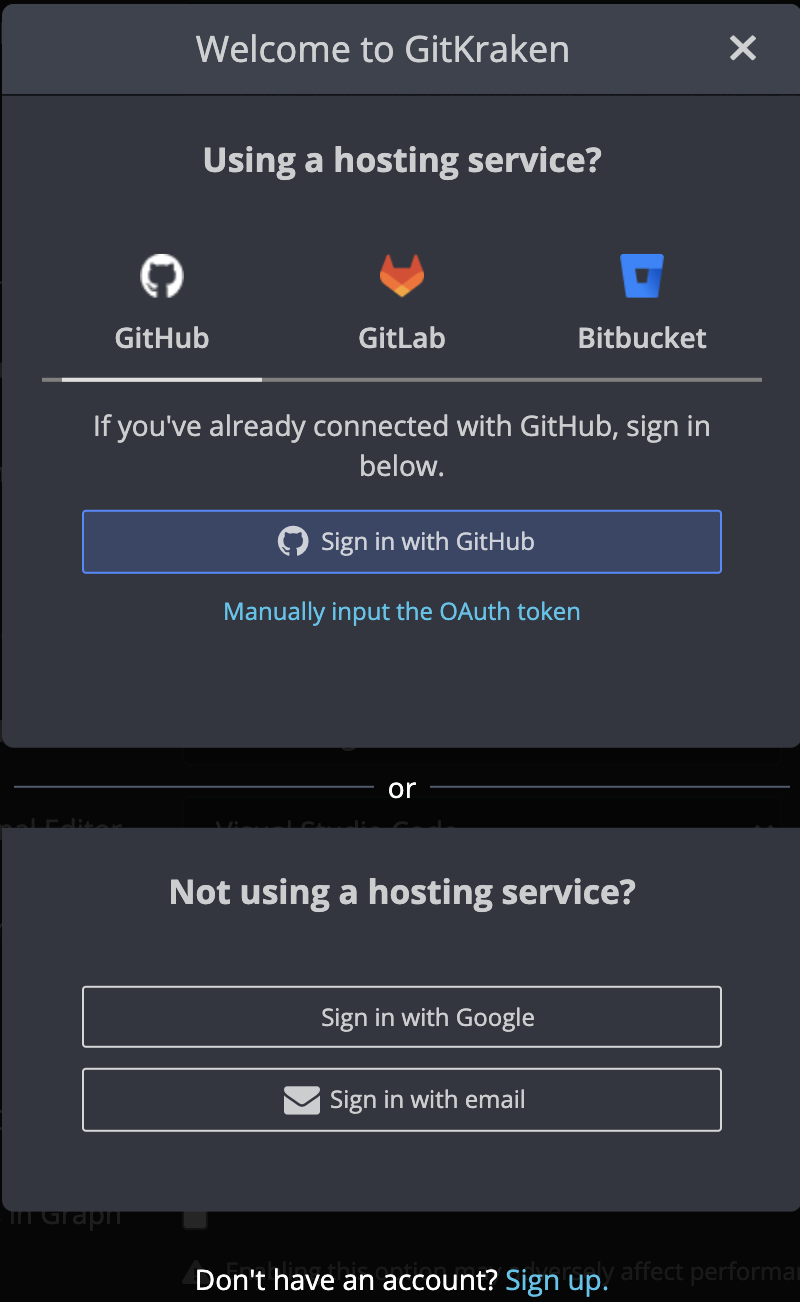
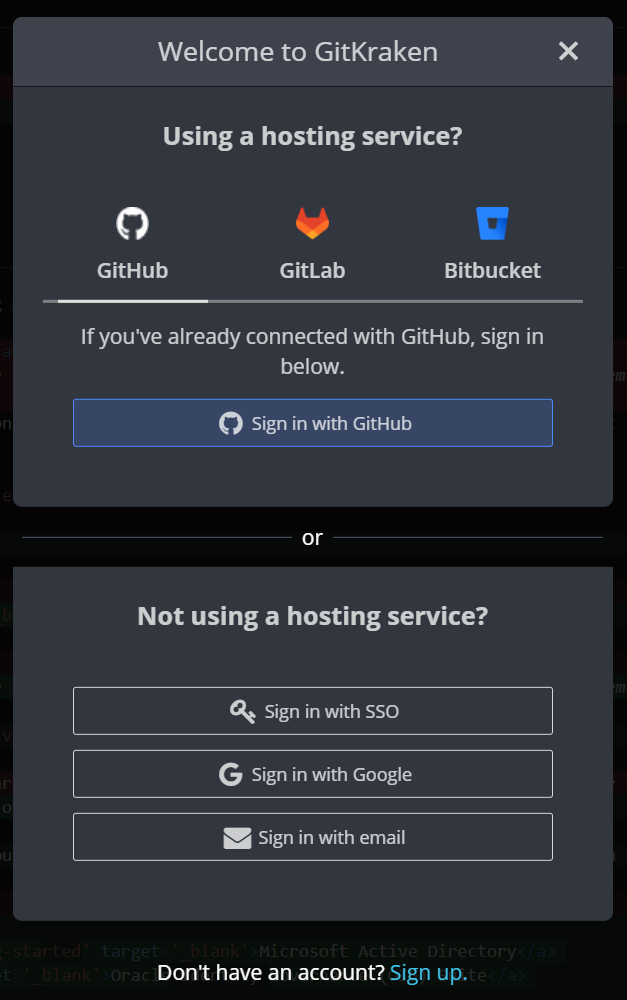
adding more SSO instructions
- removed ping
- added SSO to "login" page
- misc changes to multiple pages

Changed region(s): [[0.0, 0.0, 1.0, 1.0], [0.2424, 0.093, 0.7576, 0.155]]

diff --git a/gitkraken-client/single-sign-on.md b/gitkraken-client/single-sign-on.md
@@ -9,13 +9,13 @@ taxonomy:
 
 GitKraken offers a Single Sign On (SSO) option as an easy way to sign in to your account. 
 
-Once your organization has setup SSO with an Identity Provider (IdP), the Owner or an Admin on your GitKraken organization can link your orgazation to that identity provider. Then, any users associated with your IdP can login to GitKraken apps and services with a single click. 🎉
+Once your organization has setup SSO with an Identity Provider (IdP), the Owner or an Admin on your GitKraken organization can link your orgazation to that identity provider. Then, any users associated with your IdP can login to GitKraken apps and services quickly. 🎉
 
 <div class='callout callout--warning'>
     <p><strong>Note:</strong> You must have an active GitKraken Teams or Enterprise License to enable SSO</p>
 </div>
 
-## What is SSO?
+## What is Single Sign On (SSO)?
 
 The <a href='https://en.wikipedia.org/wiki/Single_sign-on' target='_blank'>Wikipedia</a> definition of SSO:
 
@@ -62,15 +62,16 @@ GitKraken may initiate an Oauth authentication flow with the following supported
 * <a href='https://azure.microsoft.com/' target='_blank'>Azure Active Directory</a> 
 * <a href='https://www.okta.com/' target='_blank'>Okta</a>
 * <a href='https://cloud.google.com/identity-platform' target='_blank'>Google Identity Platform (G Suite)</a>
-* <a href='https://www.pingidentity.com/en.html' target='_blank'>Ping Identity</a>
 
 <div class='callout callout--warning'>
-    <p><strong>Note:</strong> Your IdP(s) will first need to be configured before setting up the connection in GitKraken. For assistance please contact your IdP administrator or consult the IdP documentation for help.</p>
+    <p><strong>Note:</strong> Your IdP(s) will first need to be configured before setting up the connection in GitKraken.</p>
 </div>
+
+While we do not support the IdP setup, check out this [example IdP setup](/gitkraken-client/single-sign-on/#example-idp-setup-instructions) to see what this portion typically looks like.
 
 ### License Requirements
 
-Single Sign On is only availibe as part of the <a href='https://www.gitkraken.com/git-client/pricing' target='_blank'>teams and enterprise plans</a>. 
+Single Sign On is availibe as part of the <a href='https://www.gitkraken.com/git-client/pricing' target='_blank'>teams and enterprise plans</a>. 
 
 ### Setting up SSO on a GitKraken Organization
 
@@ -164,3 +165,56 @@ When logging into GitKraken Client, GitLens, <a href='https://account.gitkraken.
 <img src="/wp-content/uploads/sso-sign-in.png" class="img-bordered img-responsive center">
 
 After clicking “Sign in with SSO”, the SSO form will open and ask for an email address to use for SSO login. GitKraken will then check the email and determine whether the email address belongs to a single IdP for SSO. When the email address is successfully identified, the user will be taken to that IdP to login.
+
+
+## Example IdP setup instructions
+
+<div class='callout callout--warning'>
+    <p><strong>Note:</strong> These are example instructions to help you with Identity Provider setup. For assistance please contact your IdP administrator or consult the IdP documentation for help.</p>
+</div>
+
+How to Create SAML Application in G Suite:
+
+1. Go to https://admin.google.com/ 
+
+2. Click on “Apps” and then “Web and mobile apps”
+
+<img src="/wp-content/uploads/sso-example-idp-1.jpg" class="img-bordered img-responsive center">
+
+3. Click on “Add app” 
+
+<img src="/wp-content/uploads/sso-example-idp-2.jpg" class="img-bordered img-responsive center">
+
+4. Click “Add custom SAML app”
+
+<img src="/wp-content/uploads/sso-example-idp-3.jpg" class="img-bordered img-responsive center">
+
+5. Type in your app name
+
+<img src="/wp-content/uploads/sso-example-idp-4.jpg" class="img-bordered img-responsive center">
+
+6. Copy your “SSO URL” and “Certificate”
+
+<img src="/wp-content/uploads/sso-example-idp-5.jpg" class="img-bordered img-responsive center">
+
+7. Type in your “https://baseURL/oauth/sso/callback” for “ACS URL” and “Entity ID”
+
+<img src="/wp-content/uploads/sso-example-idp-6.jpg" class="img-bordered img-responsive center">
+
+8. Add desired attributes and click on “Finish”
+
+<img src="/wp-content/uploads/sso-example-idp-7.jpg" class="img-bordered img-responsive center">
+
+9. Click on “TEST SAML LOGIN”
+
+<img src="/wp-content/uploads/sso-example-idp-8.jpg" class="img-bordered img-responsive center">
+
+10. Click on “ALLOW ACCESS”
+
+<img src="/wp-content/uploads/sso-example-idp-9.jpg" class="img-bordered img-responsive center">
+
+11. Select “ON for everyone” and save 
+
+<img src="/wp-content/uploads/sso-example-idp-10.jpg" class="img-bordered img-responsive center">
+
+Now you are all set to [setup your your SSO on a GitKraken Organization](/gitkraken-client/single-sign-on/#setting-up-sso-on-a-gitKraken-organization)

diff --git a/gitkraken-client/login.md b/gitkraken-client/login.md
@@ -16,7 +16,7 @@ If you already have a GitKraken account, click your profile icon in the upper ri
 <img src="/wp-content/uploads/login/sign-into-a-different-account.png" srcset="/wp-content/uploads/login/sign-into-a-different-account@2x.png 2x" class="img-responsive center img-bordered">
 
 
-Alternatively, navigate to <kbd><i>File    <i class='fa fa-caret-right'></i>     Sign into a Different Account</i></kbd>
+Alternatively, navigate to <kbd><strong>File > Sign into a Different Account</strong></kbd>
 
 <img src='/wp-content/uploads/login/file.png' class='img-bordered img-responsive center'>
 
@@ -29,16 +29,20 @@ If you don't have `GitKraken` yet, [register](https://app.gitkraken.com/register
 
 When navigating to <kbd><strong>File > Sign into a different account</strong></kbd>, you may choose to sign in with GitHub, GitLab, Bitbucket, or Google:
 
-<img src='/wp-content/uploads/login/sign-in.png' srcset='/wp-content/uploads/login/sign-in@2x.png 2x' class='img-bordered img-responsive center'>
+<img src='/wp-content/uploads/login/sign-in.png' class='img-bordered img-responsive center'>
 
 Should you choose GitHub, GitLab, or Bitbucket, this will open your default browser and authenticate your account. If you are already signed into the site on your browser, GitKraken Client will sign you in using that account.
 
 Once you see the "Success!" message, select `Open GitKraken` to proceed with the login. If however GitKraken Client does not automatically log you in after signing in with one of these services, you may manually enter the Oauth token provided on the success page, to complete the authentication.
 
-<img src='/wp-content/uploads/login/google-token.png' srcset='/wp-content/uploads/login/google-token@2x.png 2x' class='img-bordered img-responsive center'>
+<img src='/wp-content/uploads/login/google-token.png' class='img-bordered img-responsive center'>
 
 Additionally if your Google, GitHub, GitLab, or Bitbucket account has a GitKraken account associated, the app will automatically link the accounts together. 
 
+
+## Sign in with SSO
+
+If your organization is on the <a href='https://www.gitkraken.com/git-client/pricing' target='_blank'>teams or enterprise plan</a>, an Owner or Admin can enable SSO. Once SSO is enabled you can [sign in](/gitkraken-client/single-sign-on/#logging-in-using-sso).
 
 ***
 
@@ -48,6 +52,6 @@ Additionally if your Google, GitHub, GitLab, or Bitbucket account has a GitKrake
 
 Yes, your GitKraken Pro paid subscription is associated with your email address, not a specific computer. So you can use GitKraken Pro on as many computers as you'd like!
 
-###I just subscribed but I do not see PRO in the lower right corner.
+### I just subscribed but I do not see PRO in the lower right corner.
 
 Be sure you are logged in with the same email address registered with your GitKraken Pro subscription. You can check by navigating to <em class='context-menu'><i class="fa fa-bars"> </i>  <i class='fa fa-caret-right'></i> Sign into a different account</em>, and then verify that your email is correct.

diff --git a/gitkraken-client/workspaces.md b/gitkraken-client/workspaces.md
@@ -113,7 +113,7 @@ Instead of hunting for these pieces of information separately, you can get a hol
 
 <div class='callout callout--warning'>
     <p>
-        <strong>Note:</strong> This Overview section is in Preview mode, and we’d love to hear your thoughts and feedback. Just click on the “Provide feedback on this view” prompt in the upper left of the Overview page to tell us what you think. .
+        <strong>Note:</strong> This Overview section is in Preview mode, and we’d love to hear your thoughts and feedback. Just click on the “Provide feedback on this view” prompt in the upper left of the Overview page to tell us what you think.
     </p>
 </div>
 

diff --git a/gitkraken-client/stashing.md b/gitkraken-client/stashing.md
@@ -72,7 +72,6 @@ You can also partially apply a stash. When a stash is selected, right click file
 
 <img src='/wp-content/uploads/partial-stash-apply.png' class='img-bordered img-responsive center'>
 
-
 Partial stash tips
 
 * You may name a partial stash by typing into the //WIP node or summary section before creating the stash.
